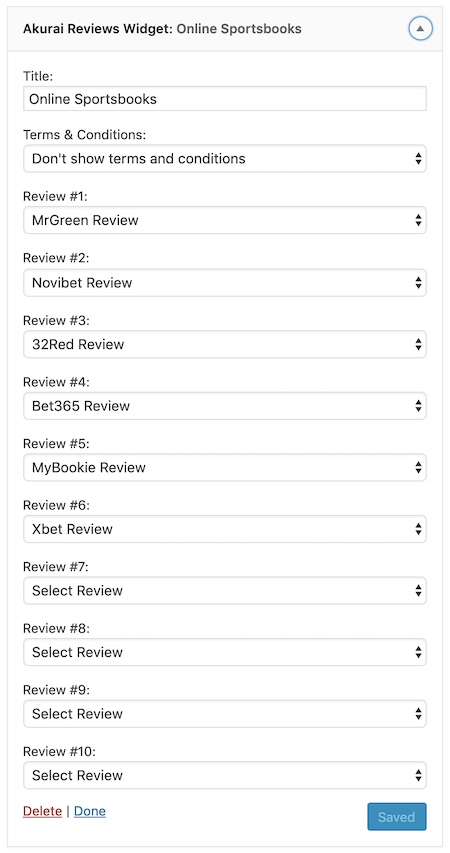
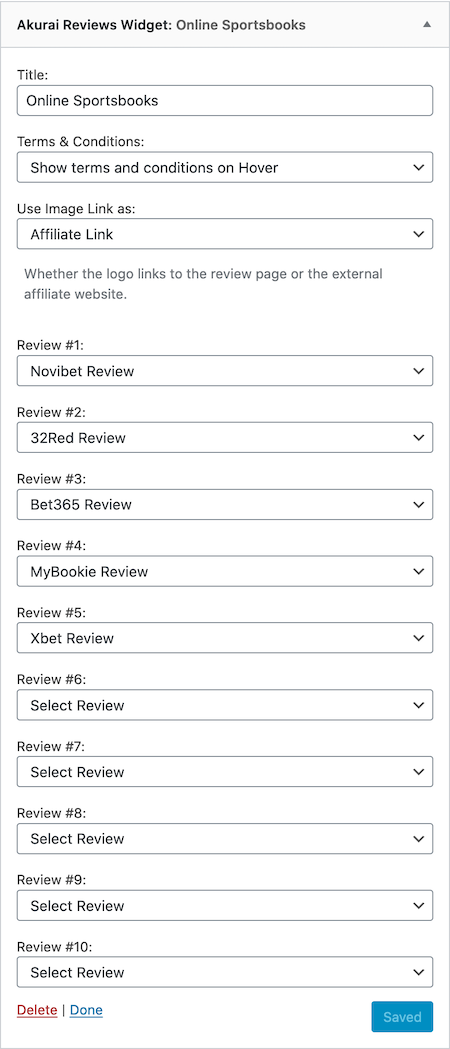
Akurai 1.1.5

diff --git a/build_production/docs/akurai/widgets/index.html b/build_production/docs/akurai/widgets/index.html
@@ -687,14 +687,14 @@ Or you can use the Customizer as well, visit <strong>Appearance</strong> &#8594;
 <p><img src="/assets/images/akurai/akurai-widgets.png" alt="Akurai Widgets" /></p>
 <h3>Reviews Widget</h3>
 <p>Add the <code>Akurai Reviews Widget</code> to the widget area of your choice.
-Add a widget title, select whether to display the sportsbook terms of not, choose the sportsbooks you want to display from the dropdown lists and click <code>Save</code>.</p>
+Add a widget title, select whether to display the review terms of conditions or not, whether the logo image links the review page or the affiliate website, choose the reviews you want to display from the dropdown lists and click <code>Save</code>.</p>
 <p>You can display up to 10 review.</p>
 <p><img src="/assets/images/akurai/akurai-widget-reviews-dashboard.png" alt="Akurai Reviews Widget" /></p>
 <p>This is what it looks like on the front-end.</p>
 <p><img src="/assets/images/akurai/akurai-widget-reviews.png" alt="Akurai Reviews Widget" /></p>
 <h3>Single Review Widget</h3>
 <p>Add the <code>Akurai Single Review Widget</code> to the widget area of your choice.
-Add a widget title, choose the sportsbook you want to display from the dropdown list and click <code>Save</code>.</p>
+Add a widget title, adjust settings: how to display terms and conditions and the review page link, choose the review you want to display from the dropdown list and click <code>Save</code>.</p>
 <p><img src="/assets/images/akurai/akurai-widget-review-dashboard.png" alt="Akurai Reviews Widget" /></p>
 <p>This is what it looks like on the front-end.</p>
 <p><img src="/assets/images/akurai/akurai-widget-review.png" alt="Akurai Reviews Widget" /></p>
@@ -703,7 +703,7 @@ Add a widget title, choose the sportsbook you want to display from the dropdown 
 
         <nav id="js-page-menu" class="page-menu hidden py-8 lg:w-48 lg:max-w-sidebar lg:block sticky" style="top: 4rem;">
             <h4 class="mb-8 font-bold text-grey text-lg pb-1 border-b inline-block">
-                AKURAI v1.1.4
+                AKURAI v1.1.5
             </h4>
 
             <div id="page-menu-wrapper" class="mb-8"></div>

diff --git a/build_production/docs/akurai/customizations/index.html b/build_production/docs/akurai/customizations/index.html
@@ -708,7 +708,7 @@ In admin dashboard visit <strong>Appearance</strong> &#8594; <strong>Customize</
 
         <nav id="js-page-menu" class="page-menu hidden py-8 lg:w-48 lg:max-w-sidebar lg:block sticky" style="top: 4rem;">
             <h4 class="mb-8 font-bold text-grey text-lg pb-1 border-b inline-block">
-                AKURAI v1.1.4
+                AKURAI v1.1.5
             </h4>
 
             <div id="page-menu-wrapper" class="mb-8"></div>

diff --git a/build_production/docs/akurai/widget-areas/index.html b/build_production/docs/akurai/widget-areas/index.html
@@ -707,7 +707,7 @@ This way you can have long footer without having to worry about their responsive
 
         <nav id="js-page-menu" class="page-menu hidden py-8 lg:w-48 lg:max-w-sidebar lg:block sticky" style="top: 4rem;">
             <h4 class="mb-8 font-bold text-grey text-lg pb-1 border-b inline-block">
-                AKURAI v1.1.4
+                AKURAI v1.1.5
             </h4>
 
             <div id="page-menu-wrapper" class="mb-8"></div>

diff --git a/build_production/docs/akurai/index.html b/build_production/docs/akurai/index.html
@@ -700,7 +700,7 @@ Here are 4 demos for you:</p>
 
         <nav id="js-page-menu" class="page-menu hidden py-8 lg:w-48 lg:max-w-sidebar lg:block sticky" style="top: 4rem;">
             <h4 class="mb-8 font-bold text-grey text-lg pb-1 border-b inline-block">
-                AKURAI v1.1.4
+                AKURAI v1.1.5
             </h4>
 
             <div id="page-menu-wrapper" class="mb-8"></div>

diff --git a/build_production/docs/akurai/page-templates/index.html b/build_production/docs/akurai/page-templates/index.html
@@ -704,7 +704,7 @@ There's no sidebar used.</p>
 
         <nav id="js-page-menu" class="page-menu hidden py-8 lg:w-48 lg:max-w-sidebar lg:block sticky" style="top: 4rem;">
             <h4 class="mb-8 font-bold text-grey text-lg pb-1 border-b inline-block">
-                AKURAI v1.1.4
+                AKURAI v1.1.5
             </h4>
 
             <div id="page-menu-wrapper" class="mb-8"></div>

diff --git a/build_production/docs/akurai/blocks-shortcodes/index.html b/build_production/docs/akurai/blocks-shortcodes/index.html
@@ -783,7 +783,7 @@ or
 
         <nav id="js-page-menu" class="page-menu hidden py-8 lg:w-48 lg:max-w-sidebar lg:block sticky" style="top: 4rem;">
             <h4 class="mb-8 font-bold text-grey text-lg pb-1 border-b inline-block">
-                AKURAI v1.1.4
+                AKURAI v1.1.5
             </h4>
 
             <div id="page-menu-wrapper" class="mb-8"></div>

diff --git a/build_production/docs/akurai/breadcrumbs/index.html b/build_production/docs/akurai/breadcrumbs/index.html
@@ -694,7 +694,7 @@
 
         <nav id="js-page-menu" class="page-menu hidden py-8 lg:w-48 lg:max-w-sidebar lg:block sticky" style="top: 4rem;">
             <h4 class="mb-8 font-bold text-grey text-lg pb-1 border-b inline-block">
-                AKURAI v1.1.4
+                AKURAI v1.1.5
             </h4>
 
             <div id="page-menu-wrapper" class="mb-8"></div>

diff --git a/build_production/docs/akurai/child-theme/index.html b/build_production/docs/akurai/child-theme/index.html
@@ -678,7 +678,7 @@
 
         <nav id="js-page-menu" class="page-menu hidden py-8 lg:w-48 lg:max-w-sidebar lg:block sticky" style="top: 4rem;">
             <h4 class="mb-8 font-bold text-grey text-lg pb-1 border-b inline-block">
-                AKURAI v1.1.4
+                AKURAI v1.1.5
             </h4>
 
             <div id="page-menu-wrapper" class="mb-8"></div>

diff --git a/build_production/docs/akurai/creating-review-pages/index.html b/build_production/docs/akurai/creating-review-pages/index.html
@@ -724,7 +724,7 @@
 
         <nav id="js-page-menu" class="page-menu hidden py-8 lg:w-48 lg:max-w-sidebar lg:block sticky" style="top: 4rem;">
             <h4 class="mb-8 font-bold text-grey text-lg pb-1 border-b inline-block">
-                AKURAI v1.1.4
+                AKURAI v1.1.5
             </h4>
 
             <div id="page-menu-wrapper" class="mb-8"></div>

diff --git a/build_production/docs/akurai/homepage-templates/index.html b/build_production/docs/akurai/homepage-templates/index.html
@@ -710,7 +710,7 @@
 
         <nav id="js-page-menu" class="page-menu hidden py-8 lg:w-48 lg:max-w-sidebar lg:block sticky" style="top: 4rem;">
             <h4 class="mb-8 font-bold text-grey text-lg pb-1 border-b inline-block">
-                AKURAI v1.1.4
+                AKURAI v1.1.5
             </h4>
 
             <div id="page-menu-wrapper" class="mb-8"></div>

diff --git a/build_production/docs/akurai/installation/index.html b/build_production/docs/akurai/installation/index.html
@@ -699,7 +699,7 @@
 
         <nav id="js-page-menu" class="page-menu hidden py-8 lg:w-48 lg:max-w-sidebar lg:block sticky" style="top: 4rem;">
             <h4 class="mb-8 font-bold text-grey text-lg pb-1 border-b inline-block">
-                AKURAI v1.1.4
+                AKURAI v1.1.5
             </h4>
 
             <div id="page-menu-wrapper" class="mb-8"></div>

diff --git a/build_production/docs/akurai/registration/index.html b/build_production/docs/akurai/registration/index.html
@@ -692,7 +692,7 @@
 
         <nav id="js-page-menu" class="page-menu hidden py-8 lg:w-48 lg:max-w-sidebar lg:block sticky" style="top: 4rem;">
             <h4 class="mb-8 font-bold text-grey text-lg pb-1 border-b inline-block">
-                AKURAI v1.1.4
+                AKURAI v1.1.5
             </h4>
 
             <div id="page-menu-wrapper" class="mb-8"></div>
